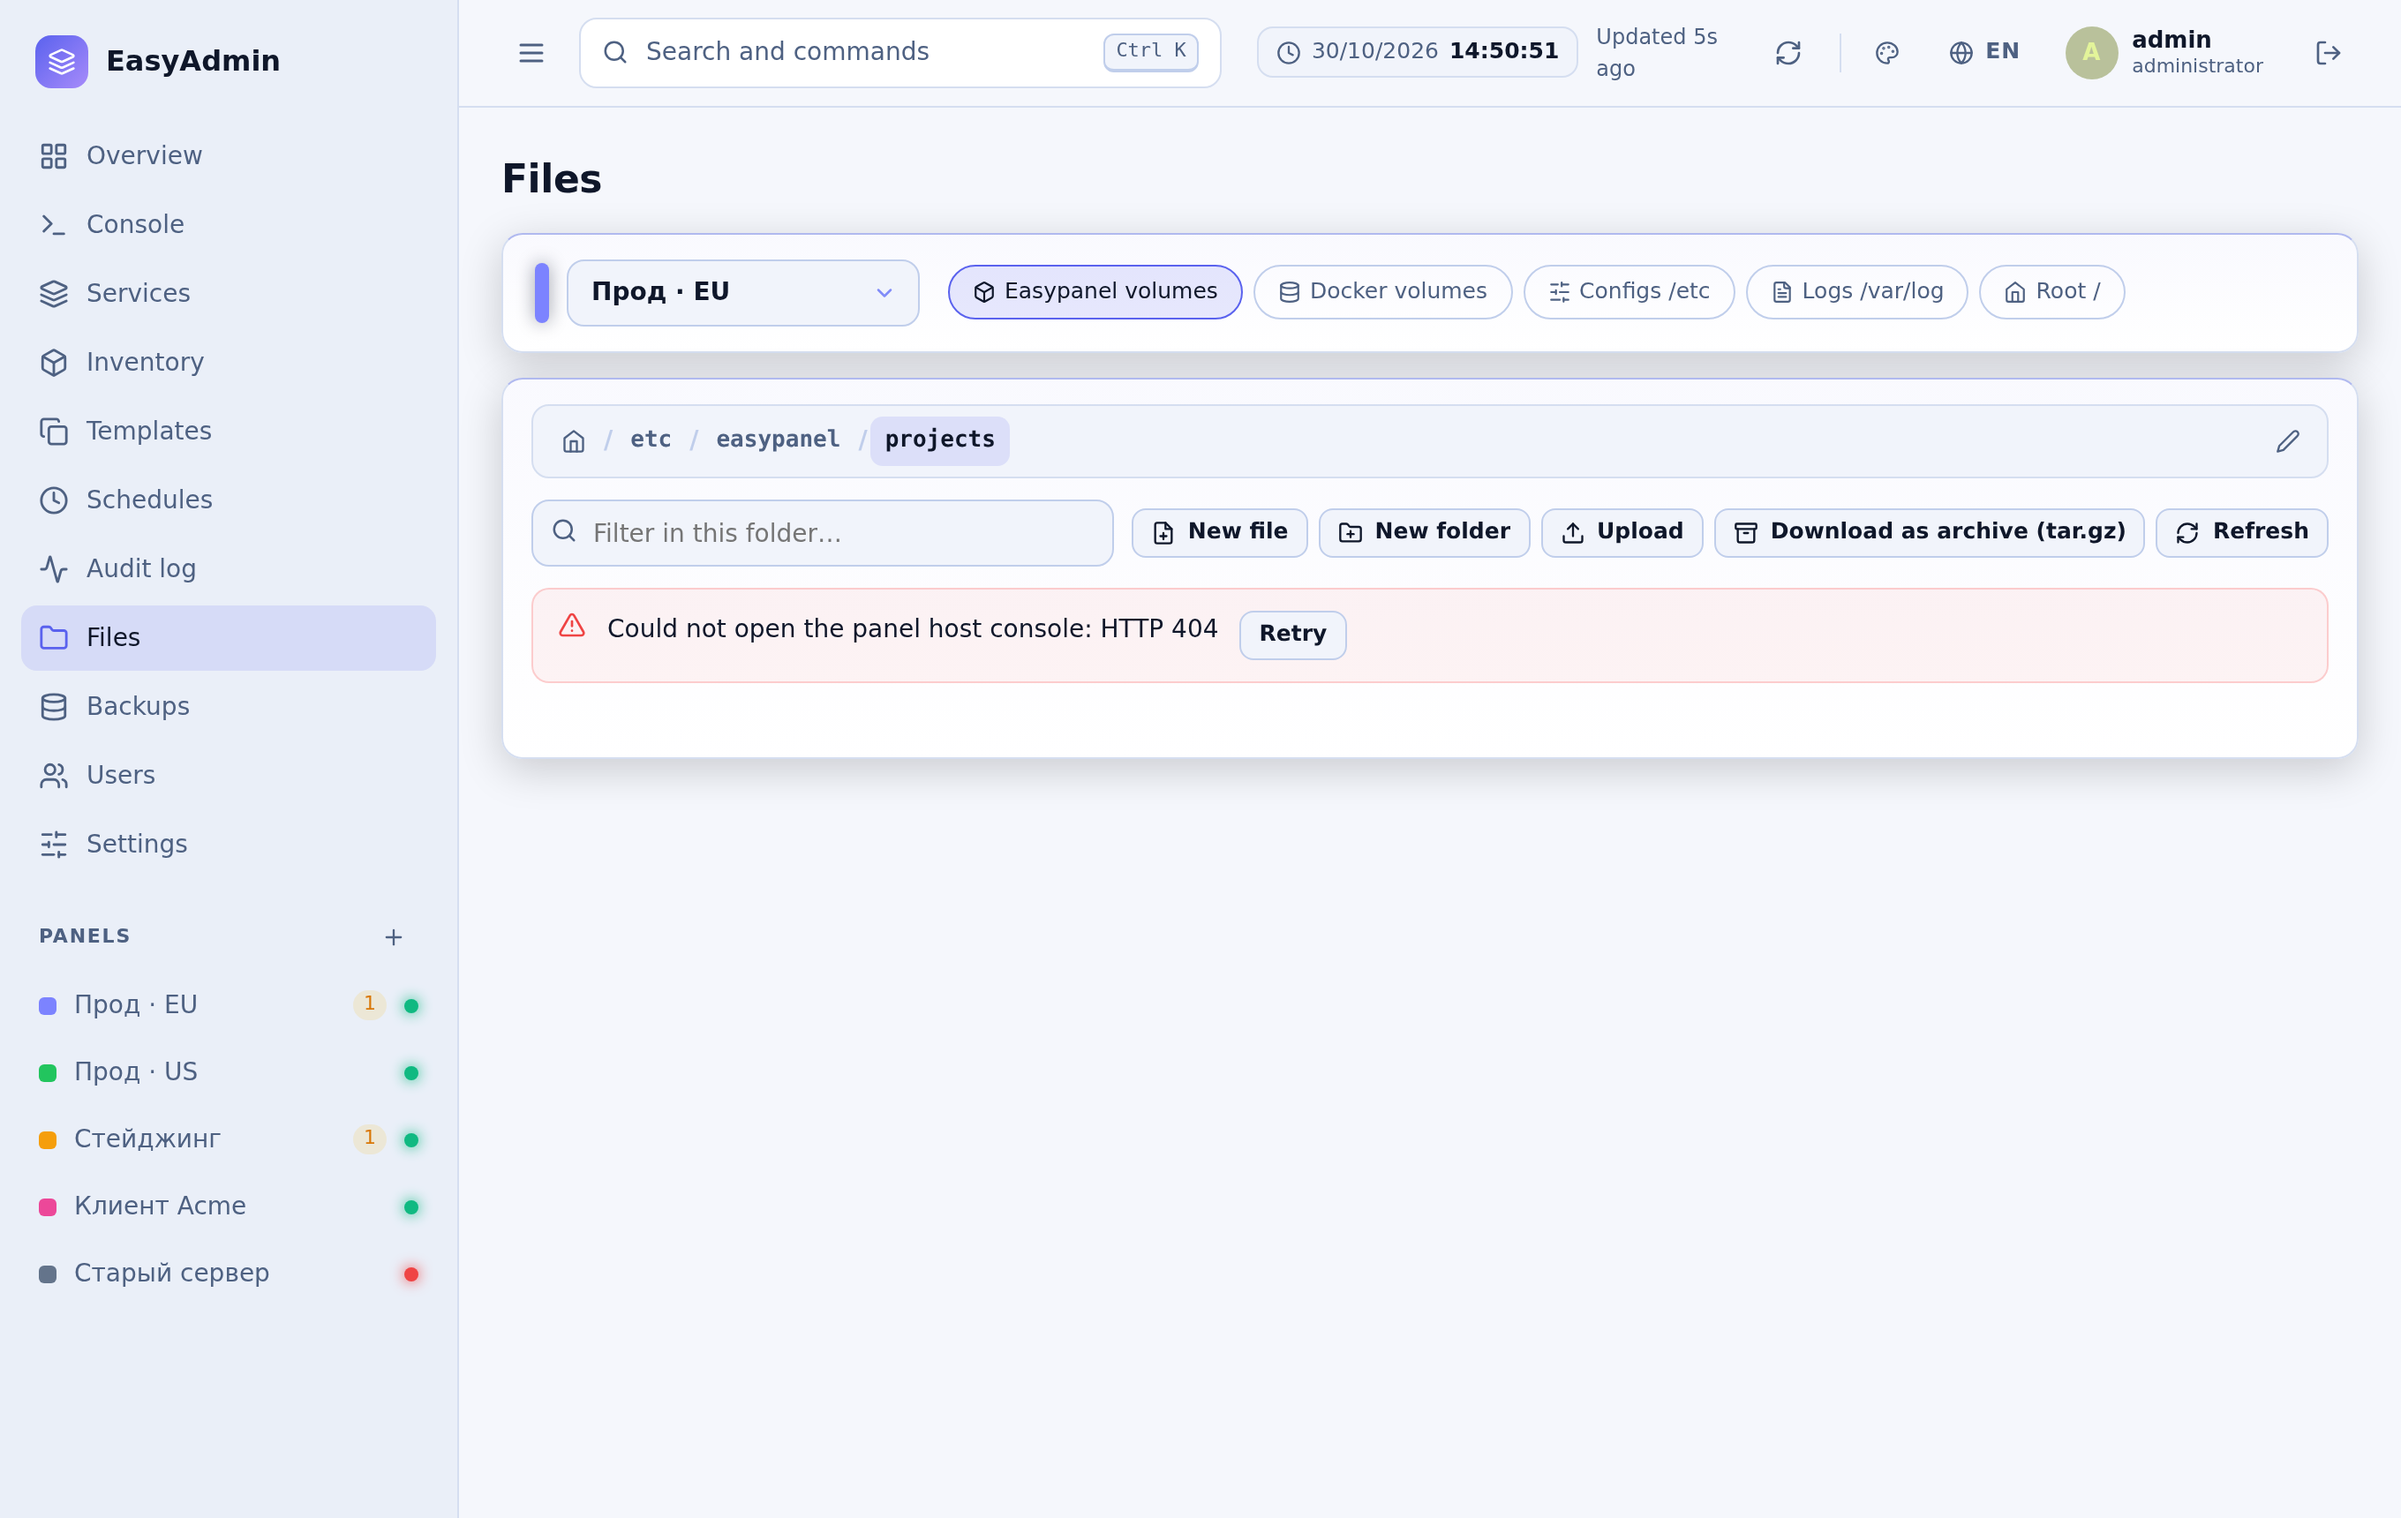
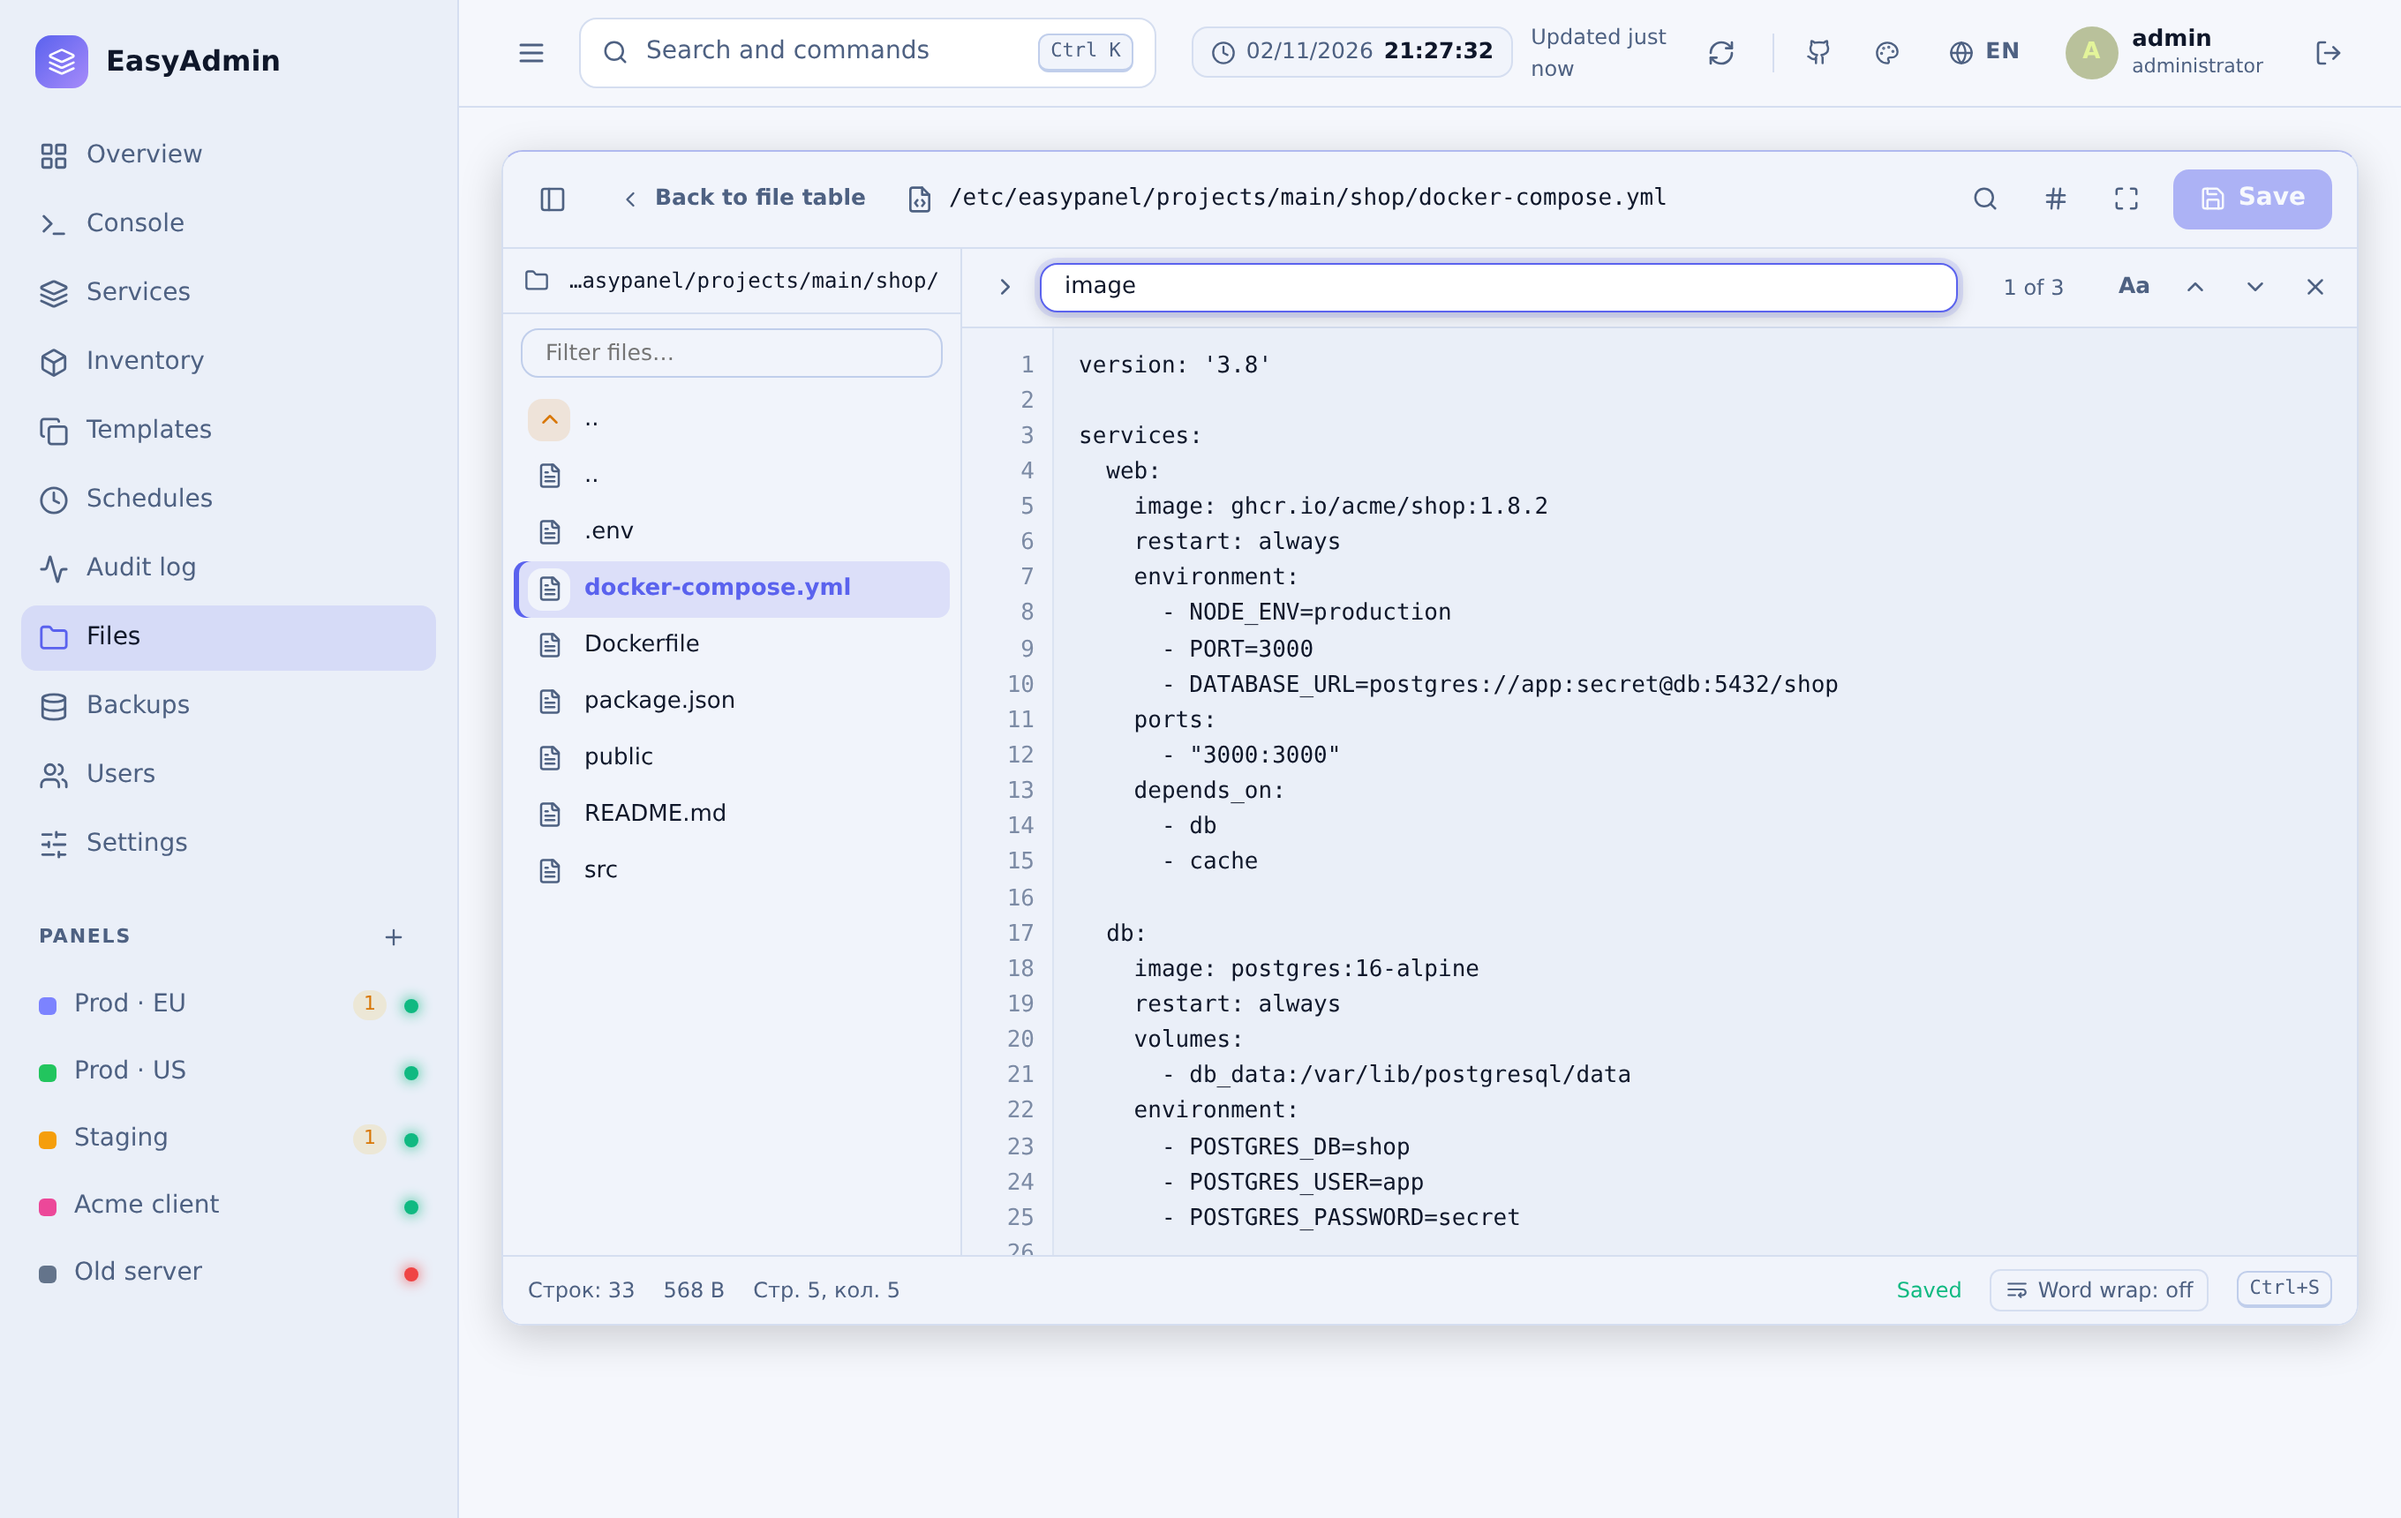
Docs: обновить все 10 скриншотов в репозитории на чистый английский язык

diff --git a/scripts/capture_english_screenshots.py b/scripts/capture_english_screenshots.py
@@ -1,0 +1,175 @@
+import asyncio
+import os
+import subprocess
+import time
+from playwright.async_api import async_playwright
+
+async def capture_all():
+    port = '3195'
+    env = {
+        **os.environ,
+        'PORT': port,
+        'DEMO_BACKUPS': '1',
+        'DEMO_NAMES': 'en',
+        'EASYADMIN_NO_RATE_LIMIT': '1'
+    }
+    
+    proc = subprocess.Popen(
+        ['node', 'scripts/demo.js'],
+        cwd='/opt/data/workspace/easyadmin',
+        env=env,
+        stdout=subprocess.PIPE,
+        stderr=subprocess.STDOUT,
+        text=True
+    )
+    for line in proc.stdout:
+        print("DEMO:", line.strip())
+        if "Демо запущено:" in line:
+            break
+            
+    out_dir = '/opt/data/workspace/easyadmin/docs/screenshots'
+    os.makedirs(out_dir, exist_ok=True)
+    
+    try:
+        async with async_playwright() as pw:
+            browser = await pw.chromium.launch(
+                executable_path='/opt/hermes/tools/chromium-1208/chrome-linux64/chrome',
+                args=['--no-sandbox', '--disable-dev-shm-usage', '--disable-gpu']
+            )
+            context = await browser.new_context(
+                viewport={'width': 1360, 'height': 860},
+                device_scale_factor=2,
+                locale='en-US'
+            )
+            page = await context.new_page()
+            
+            # Setup language to English
+            await page.goto(f'http://127.0.0.1:{port}/')
+            await page.evaluate("localStorage.setItem('ea-lang', 'en')")
+            await page.reload()
+            await asyncio.sleep(0.5)
+            
+            # Login
+            await page.fill('input[autocomplete="username"]', 'admin')
+            await page.fill('input[autocomplete="current-password"]', 'demo12345')
+            await page.click('button[type="submit"]')
+            await page.wait_for_selector('.topbar', timeout=6000)
+            await asyncio.sleep(1)
+            
+            # 1. Overview
+            await page.goto(f'http://127.0.0.1:{port}/#/')
+            await asyncio.sleep(1)
+            await page.screenshot(path=f'{out_dir}/overview.png')
+            print("✓ 1. overview.png")
+            
+            # 2. Files (IDE Split View with file tree, editor and find bar)
+            await page.goto(f'http://127.0.0.1:{port}/#/files')
+            await asyncio.sleep(0.8)
+            await page.evaluate("""async () => {
+                const { editorView } = await import('./js/files-editor.js');
+                const { clear } = await import('./js/dom.js');
+                const root = document.querySelector('.content .view');
+                const composeContent = `version: '3.8'\\n\\nservices:\\n  web:\\n    image: ghcr.io/acme/shop:1.8.2\\n    restart: always\\n    environment:\\n      - NODE_ENV=production\\n      - PORT=3000\\n      - DATABASE_URL=postgres://app:secret@db:5432/shop\\n    ports:\\n      - "3000:3000"\\n    depends_on:\\n      - db\\n      - cache\\n\\n  db:\\n    image: postgres:16-alpine\\n    restart: always\\n    volumes:\\n      - db_data:/var/lib/postgresql/data\\n    environment:\\n      - POSTGRES_DB=shop\\n      - POSTGRES_USER=app\\n      - POSTGRES_PASSWORD=secret\\n\\n  cache:\\n    image: redis:7-alpine\\n    restart: always\\n\\nvolumes:\\n  db_data:\\n`;
+                const items = [
+                  { name: '..', type: 'dir', parent: true },
+                  { name: 'src', type: 'dir' },
+                  { name: 'public', type: 'dir' },
+                  { name: '.env', type: 'file', size: 312 },
+                  { name: 'docker-compose.yml', type: 'file', size: composeContent.length },
+                  { name: 'Dockerfile', type: 'file', size: 850 },
+                  { name: 'package.json', type: 'file', size: 1240 },
+                  { name: 'README.md', type: 'file', size: 4890 }
+                ];
+                const ed = editorView({
+                  panelId: 1,
+                  path: '/etc/easypanel/projects/main/shop/docker-compose.yml',
+                  data: { size: composeContent.length, content: composeContent, path: '/etc/easypanel/projects/main/shop/docker-compose.yml' },
+                  onClose: () => {},
+                  listDir: async (p) => ({ path: '/etc/easypanel/projects/main/shop', items, parent: '/etc/easypanel/projects/main' }),
+                  onOpen: () => {}
+                });
+                clear(root).append(ed);
+                
+                // Open search bar
+                view.querySelector('button[title*="Ctrl+F"]')?.click();
+            }""")
+            await asyncio.sleep(0.5)
+            await page.fill('.fm-find input', 'image')
+            await asyncio.sleep(0.5)
+            await page.screenshot(path=f'{out_dir}/files.png')
+            print("✓ 2. files.png")
+            
+            # 3. Server Doctor
+            await page.goto(f'http://127.0.0.1:{port}/#/')
+            await page.goto(f'http://127.0.0.1:{port}/#/doctor')
+            await asyncio.sleep(1.2)
+            await page.screenshot(path=f'{out_dir}/server-doctor.png')
+            print("✓ 3. server-doctor.png")
+            
+            # 4. Command Palette
+            await page.goto(f'http://127.0.0.1:{port}/#/')
+            await asyncio.sleep(0.5)
+            await page.evaluate("window.openPalette ? window.openPalette() : document.querySelector('.search-trigger')?.click()")
+            await asyncio.sleep(0.5)
+            await page.keyboard.type('>')
+            await asyncio.sleep(0.5)
+            await page.screenshot(path=f'{out_dir}/palette.png')
+            print("✓ 4. palette.png")
+            
+            # 5. Public Status Page
+            await page.goto(f'http://127.0.0.1:{port}/status')
+            await asyncio.sleep(1.2)
+            await page.screenshot(path=f'{out_dir}/status-page.png')
+            print("✓ 5. status-page.png")
+            
+            # 6. AI Doctor
+            await page.goto(f'http://127.0.0.1:{port}/#/')
+            await page.goto(f'http://127.0.0.1:{port}/#/ai-doctor')
+            await asyncio.sleep(1.2)
+            await page.screenshot(path=f'{out_dir}/ai-doctor.png')
+            print("✓ 6. ai-doctor.png")
+            
+            # 7. Migration Modal
+            await page.goto(f'http://127.0.0.1:{port}/#/')
+            await asyncio.sleep(0.8)
+            await page.evaluate("""async () => {
+                const m = await import('./js/migration-modal.js');
+                await m.migrationModal();
+            }""")
+            await asyncio.sleep(0.8)
+            await page.screenshot(path=f'{out_dir}/migration.png')
+            print("✓ 7. migration.png")
+            
+            # 8. Themes Modal
+            await page.keyboard.press('Escape')
+            await asyncio.sleep(0.5)
+            await page.evaluate("""async () => {
+                const m = await import('./js/theme-picker.js');
+                m.themePickerModal();
+            }""")
+            await asyncio.sleep(0.8)
+            await page.screenshot(path=f'{out_dir}/themes.png')
+            print("✓ 8. themes.png")
+            
+            # 9. Backups Page
+            await page.keyboard.press('Escape')
+            await asyncio.sleep(0.5)
+            await page.goto(f'http://127.0.0.1:{port}/#/backups')
+            await asyncio.sleep(1.2)
+            await page.screenshot(path=f'{out_dir}/backups.png')
+            print("✓ 9. backups.png")
+            
+            # 10. Load Tab
+            await page.goto(f'http://127.0.0.1:{port}/#/panels/1?tab=load')
+            await asyncio.sleep(1.5)
+            await page.screenshot(path=f'{out_dir}/load.png')
+            print("✓ 10. load.png")
+            
+            await browser.close()
+    finally:
+        proc.terminate()
+        proc.wait()
+    print("ALL 10 SCREENSHOTS COMPLETED SUCCESSFULLY!")
+
+if __name__ == '__main__':
+    asyncio.run(capture_all())
